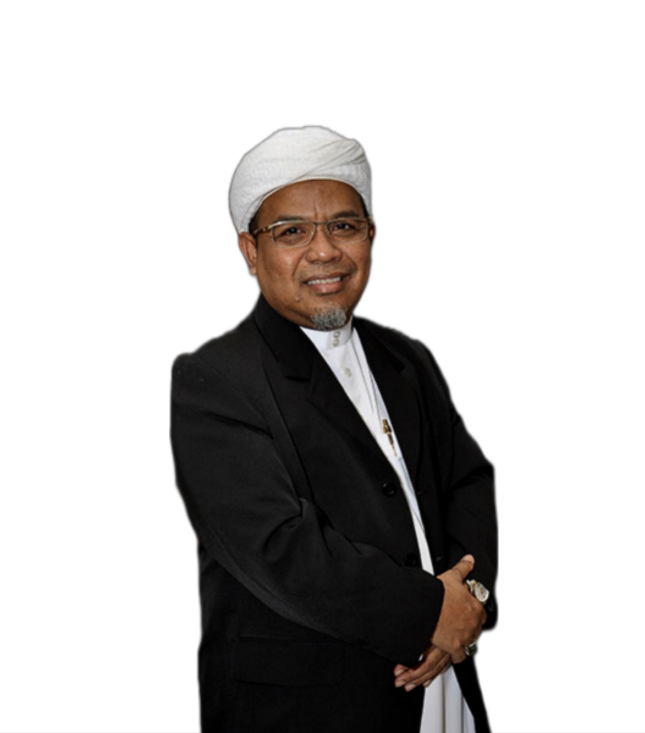
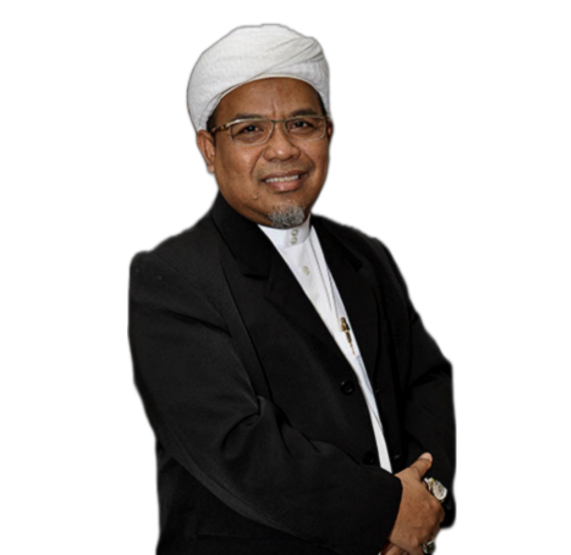
update

diff --git a/resources/js/Pages/Welcome.vue b/resources/js/Pages/Welcome.vue
@@ -462,7 +462,7 @@
           <div class="flex flex-wrap items-center">
             <div class="w-full lg:w-1/2">
               <div class="flex flex-wrap justify-center">
-                <div class="w-1/2 h-1/2 sm:w-1/2  px-4">
+                <div class="w-[150px] h-2/3 sm:w-1/2">
                   <img src="img/pengarah-syarikat.png" alt="..." class="shadow-lg rounded-full max-w-full h-auto align-middle border-none" />
                 </div>
               </div>
